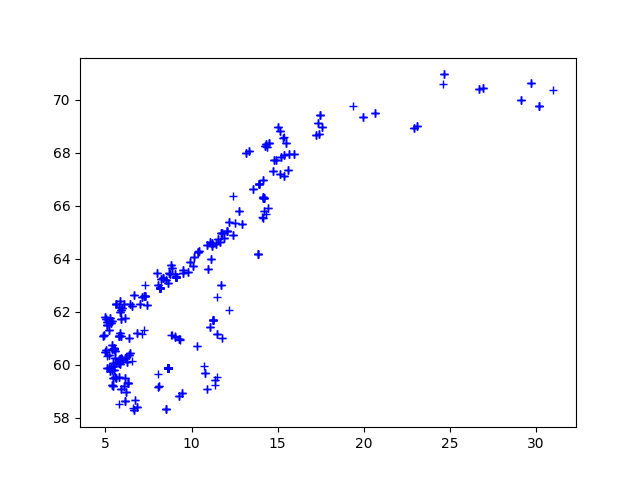
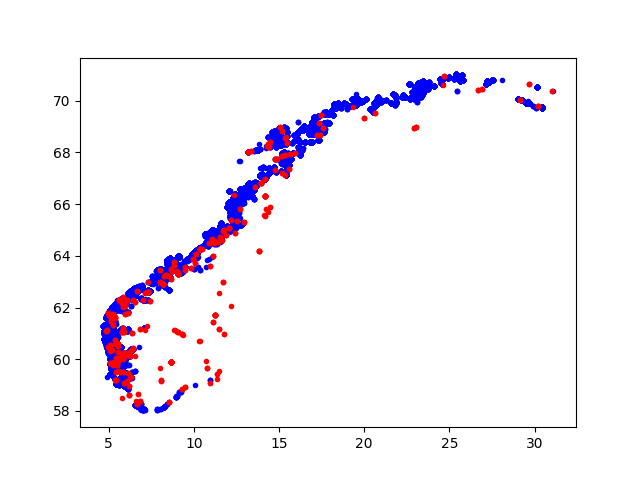
.

diff --git a/Uke_12/uke_12_oppg_6c.py b/Uke_12/uke_12_oppg_6c.py
@@ -1,48 +1,40 @@
 import csv
 
-lats_fersk = []
-lons_fersk = []
-
+lats = []
+lons = []
 lats_salt = []
 lons_salt = []
-
-
 
 with open('Akvakulturregisteret.csv', newline='', encoding='iso-8859-1') as csvfile:
     akvareader = csv.reader(csvfile, delimiter=';')
     for row in akvareader:
-        if row[20]=="FERSKVANN":
+        if row[20] == 'FERSKVANN':
 
             try:
                 lat = float(row[-2]) # latitude is second last
                 lon = float(row[-1]) # longitude is last
             except ValueError:
                 continue
-            lats_fersk.append(lat)
-            lons_fersk.append(lon)
-
-            
-    for row in akvareader:
-        if row[20]=="SALTVANN":
+            lats.append(lat)
+            lons.append(lon)
+        if row[20] == 'SALTVANN':
 
             try:
                 lat = float(row[-2]) # latitude is second last
                 lon = float(row[-1]) # longitude is last
             except ValueError:
                 continue
-            lats_fersk.append(lat)
-            lons_fersk.append(lon)
-  
-    
+            lats_salt.append(lat)
+            lons_salt.append(lon)
 
 try:
     import matplotlib.pyplot as plt
-    plt.plot(lons_fersk,lats_fersk,'+b')
-    plt.plot(lons_salt,lats_salt,'+r')
+    # Blå prikker er saltvann, røde prikker er ferskvann (Kan byttes ut med "+" for å bytte tegn.)
+    plt.plot(lons_salt,lats_salt,'.b')
+    plt.plot(lons,lats,'.r')
     plt.savefig("uke_12_oppg_6c.png")
     plt.show()
 except (ImportError, ModuleNotFoundError) as e:
     print(f'Import of matplotlib failed: {e}')
-    print(f'We have {len(lats_fersk)} latitudes and {len(lons_fersk)} longitudes')
+    print(f'We have {len(lats)} latitudes and {len(lons)} longitudes')
     print(f'We have {len(lats_salt)} latitudes and {len(lons_salt)} longitudes')
-

diff --git a/Uke_12/uke_12_oppg_6b.py b/Uke_12/uke_12_oppg_6b.py
@@ -6,7 +6,7 @@ lons = []
 with open("Akvakulturregisteret.csv", newline="", encoding="iso-8859-1") as csvfile:
     akvareader = csv.reader(csvfile, delimiter=";")
     for row in akvareader:
-        if row[12] == "Laks":
+        if row[12] == "Laks": # endre dennne linjen til å velge hvilke arter som skal vises
             try:
                 lat = float(row[-2])  # latitude is second last
                 lon = float(row[-1])  # longitude is last
@@ -23,7 +23,7 @@ try:
     plt.savefig("uke_12_oppg_6b.png")
     plt.show()
 
-    print(len(lats))
+
 
 
 except (ImportError, ModuleNotFoundError) as e:

diff --git a/Uke_12/uke_12_oppg_3.py b/Uke_12/uke_12_oppg_3.py
@@ -10,10 +10,10 @@ ys_2 = [3 * sin(x) for x in xs]
 plt.plot(xs, ys_1, "-.r")
 plt.plot(xs, ys_2, "--b")
 
-# Første interseksjonen.
-# https://matplotlib.org/stable/api/_as_gen/matplotlib.pyplot.arrow.html
-plt.annotate("", xy=(0, 0), xytext=(0.5, 0.5),
-             arrowprops=dict(arrowstyle="->"))  
+# Første interseksjonen
+plt.annotate("", xy=(3.20, 0), xytext=(xs[3], ys_1[3]), arrowprops=dict(arrowstyle="->"))
+plt.text(xs[0], ys_1[-1], "Første interseksjonen")
+
 
 
 # savefig lagrer filene

diff --git a/Uke_12/uke_12_oppg_6d.py b/Uke_12/uke_12_oppg_6d.py
@@ -1,4 +1,4 @@
-# Kakediagram over formål
+# Lag et kakediagram over de ulike formolene som er oppgitt i .csv filen.
 
 import csv
 import matplotlib.pyplot as plt
